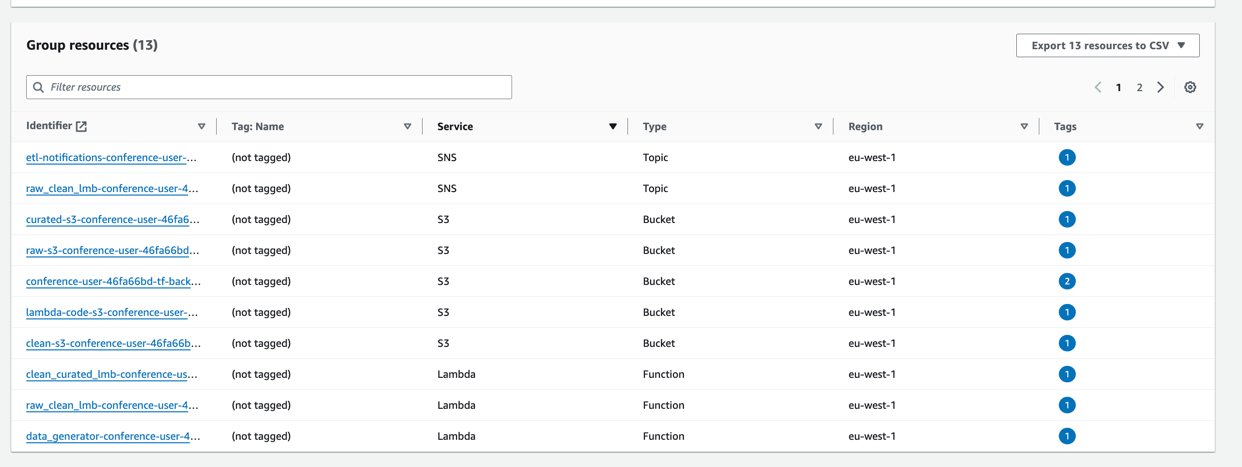
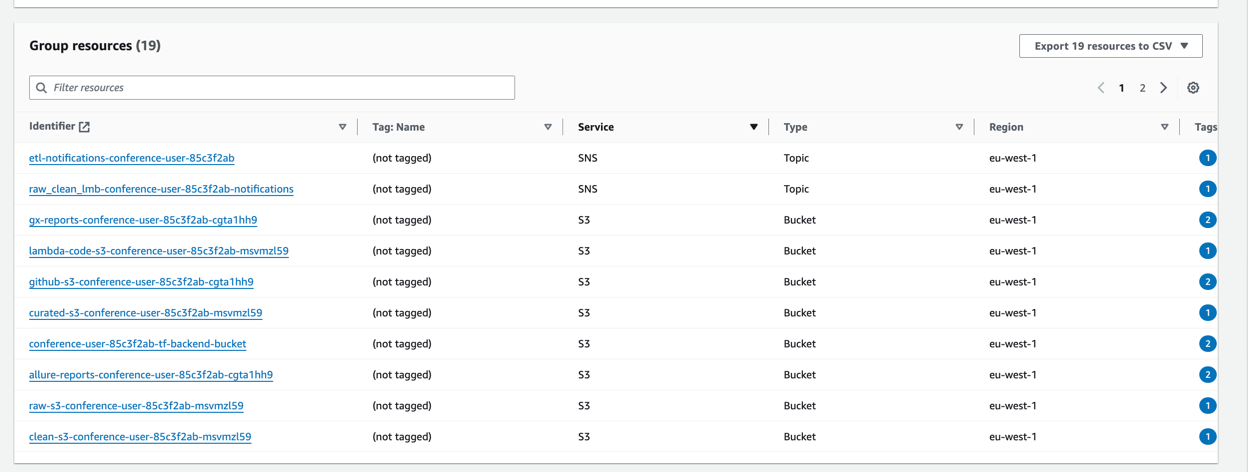
improve screenshoots

diff --git a/README.md b/README.md
@@ -203,7 +203,7 @@ Before deploying the CI/CD and ETL infrastructures, you need to set up the backe
 2. **Check S3 Buckets**: Confirm that the S3 buckets for the backend, Lambda functions, raw, clean, and curated data are present.
     - ![Screenshot of S3 buckets](assets/aws-resource-group-check.png)
 3. **Check Other Resources**: Verify that the IAM roles, CodeBuild, and CodePipeline have been created.
-    - ![Screenshot of IAM roles, CodeBuild, and CodePipeline](path/to/screenshot-aws-resources.png)
+
 
 ## Common Issues and Tips
 - **Terraform Init Errors**: Ensure your AWS credentials are correctly configured. Use `aws configure` to reset them if necessary.
